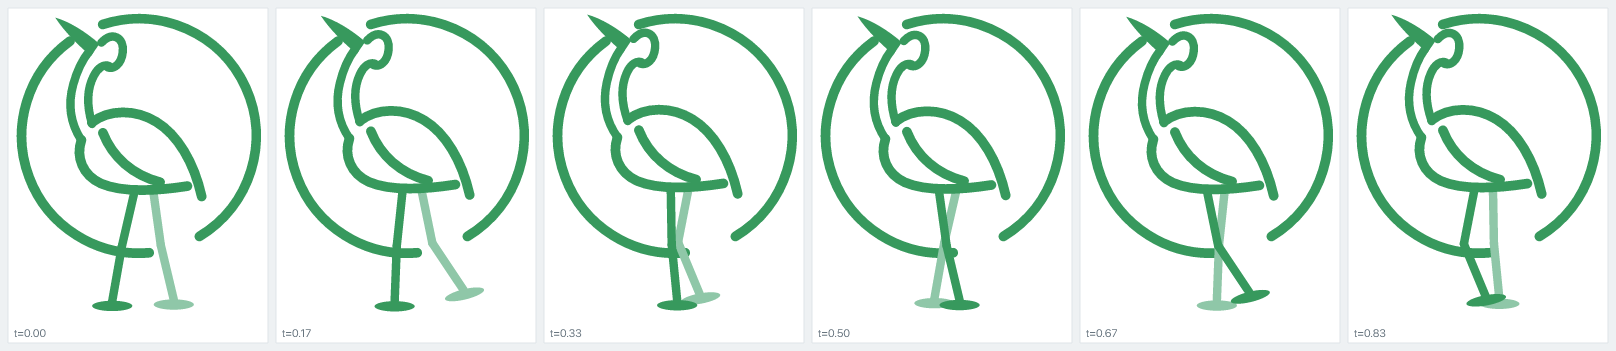
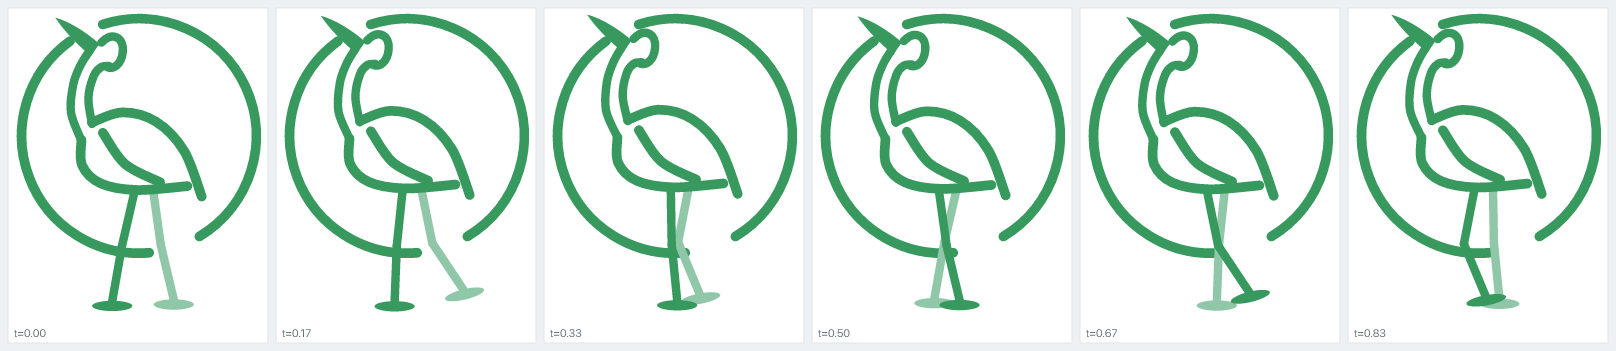
add arc and through drawing primitives

diff --git a/src/scene.ts b/src/scene.ts
@@ -265,6 +265,126 @@ export function path(o: { d: string } & Fill & Stroke): void {
   shape('path', { d: o.d, ...paint(o) });
 }
 
+// --- curves and arcs ---------------------------------------------------------
+// Geometry stated the way you think about it, rather than as an SVG `d` string.
+// Both of these exist because writing the string form by hand is where drawing
+// code actually goes wrong: arc flags are a coin-flip, and Bezier handles are
+// numbers you cannot read off a reference image.
+
+/** Two decimals is finer than any renderer resolves, and keeps `d` readable. */
+function n(v: number): string {
+  return String(Math.round(v * 100) / 100);
+}
+
+function xy(p: Vec2): string {
+  return `${n(p[0])},${n(p[1])}`;
+}
+
+export interface ArcOptions {
+  cx: number;
+  cy: number;
+  /** Circular radius. Give `rx`/`ry` instead for an ellipse. */
+  r?: number;
+  rx?: number;
+  ry?: number;
+  /**
+   * Angles in degrees, 0 at 3 o'clock and increasing clockwise, matching the
+   * y-down coordinate system everything else here uses. `to` less than `from`
+   * sweeps the other way. Omit both for a closed ring.
+   */
+  from?: number;
+  to?: number;
+  /** Rotation of an ellipse's own axes, degrees. */
+  rotate?: number;
+}
+
+/**
+ * An arc as centre, radius and two angles.
+ *
+ * The SVG form — `A rx ry rot large-arc sweep x y` — needs the endpoints solved
+ * by hand and then two flags whose meaning nobody recalls under pressure. This
+ * takes what you actually know and emits segments of at most 180 degrees, which
+ * makes the large-arc flag unconditionally 0 and lets a full ring be one call.
+ */
+export function arcPath(o: ArcOptions): string {
+  const rx = o.rx ?? o.r;
+  const ry = o.ry ?? o.r;
+  if (rx === undefined || ry === undefined) {
+    throw new Error('heron: arc() needs r, or both rx and ry');
+  }
+  const from = o.from ?? 0;
+  const span = (o.to ?? 360) - from;
+  if (!span) throw new Error('heron: arc() from and to are the same angle');
+
+  const rot = o.rotate ?? 0;
+  const cosR = Math.cos((rot * Math.PI) / 180);
+  const sinR = Math.sin((rot * Math.PI) / 180);
+  const at = (deg: number): Vec2 => {
+    const a = (deg * Math.PI) / 180;
+    const px = rx * Math.cos(a);
+    const py = ry * Math.sin(a);
+    return [o.cx + px * cosR - py * sinR, o.cy + px * sinR + py * cosR];
+  };
+
+  // Splitting at 180 degrees is what removes the flag guesswork: no segment can
+  // ever be the "large" one, and a sweep of 360 or more stops being impossible.
+  const steps = Math.max(1, Math.ceil(Math.abs(span) / 180));
+  const sweep = span > 0 ? 1 : 0;
+  let d = `M${xy(at(from))}`;
+  for (let i = 1; i <= steps; i++) {
+    d += ` A${n(rx)},${n(ry)} ${n(rot)} 0 ${sweep} ${xy(at(from + (span * i) / steps))}`;
+  }
+  return Math.abs(span) >= 360 ? `${d} Z` : d;
+}
+
+export function arc(o: ArcOptions & Fill & Stroke): void {
+  shape('path', { d: arcPath(o), ...paint(o) });
+}
+
+export interface CurveOptions {
+  /** Join the last point back to the first. */
+  closed?: boolean;
+  /** 1 is a natural curve; 0 collapses to straight segments. */
+  tension?: number;
+}
+
+/**
+ * A smooth curve through every point given.
+ *
+ * This is the one that changes how a character gets drawn from a reference.
+ * A cubic's control points are not on the curve, so they cannot be read off an
+ * image — they have to be guessed, checked in a render, and adjusted, which is
+ * a slow loop over numbers with no visible meaning. The points here are all on
+ * the curve, so they are exactly the positions you can see and correct.
+ */
+export function curvePath(points: Vec2[], o: CurveOptions = {}): string {
+  if (points.length < 2) throw new Error('heron: through() needs at least two points');
+  const closed = o.closed ?? false;
+  if (points.length === 2 && !closed) return `M${xy(points[0])} L${xy(points[1])}`;
+
+  const len = points.length;
+  // Open curves clamp at the ends, which makes the first and last segments bend
+  // toward their neighbour instead of flicking off in an arbitrary direction.
+  const at = (i: number): Vec2 =>
+    closed ? points[((i % len) + len) % len] : points[Math.max(0, Math.min(len - 1, i))];
+
+  // Catmull-Rom in Bezier form: the tangent at a point is the direction between
+  // its two neighbours, scaled by a sixth to match cubic parameterisation.
+  const k = (o.tension ?? 1) / 6;
+  let d = `M${xy(points[0])}`;
+  for (let i = 0; i < (closed ? len : len - 1); i++) {
+    const [p0, p1, p2, p3] = [at(i - 1), at(i), at(i + 1), at(i + 2)];
+    const c1: Vec2 = [p1[0] + (p2[0] - p0[0]) * k, p1[1] + (p2[1] - p0[1]) * k];
+    const c2: Vec2 = [p2[0] - (p3[0] - p1[0]) * k, p2[1] - (p3[1] - p1[1]) * k];
+    d += ` C${xy(c1)} ${xy(c2)} ${xy(p2)}`;
+  }
+  return closed ? `${d} Z` : d;
+}
+
+export function through(points: Vec2[], o: CurveOptions & Fill & Stroke = {}): void {
+  shape('path', { d: curvePath(points, o), ...paint(o) });
+}
+
 export function polygon(o: { points: Vec2[] } & Fill & Stroke): void {
   shape('polygon', { points: o.points.map((p) => p.join(',')).join(' '), ...paint(o) });
 }

diff --git a/examples/tenfore.ts b/examples/tenfore.ts
@@ -14,7 +14,7 @@
  */
 
 import {
-  character, part, layer, line, ellipse, path,
+  character, part, layer, line, ellipse, path, arc, through,
   walkCycle, bodyBob, sway, applyGait,
   type Character, type Vec2,
 } from '../src/index.ts';
@@ -27,22 +27,7 @@ const FAR = '#8fc7a8';
 const RING_W = 30;
 const LINE_W = 30;
 
-// --- the ring ----------------------------------------------------------------
-
-const CX = 513;
-const CY = 424;
-const R = 361;
-
-/** Arc of the ring between two clockwise-from-3-o'clock angles. */
-function ring(a0: number, a1: number): string {
-  const at = (a: number): Vec2 => [
-    CX + R * Math.cos((a * Math.PI) / 180),
-    CY + R * Math.sin((a * Math.PI) / 180),
-  ];
-  const [x0, y0] = at(a0);
-  const [x1, y1] = at(a1);
-  return `M${x0.toFixed(1)},${y0.toFixed(1)} A${R},${R} 0 ${a1 - a0 > 180 ? 1 : 0} 1 ${x1.toFixed(1)},${y1.toFixed(1)}`;
-}
+const RING = { cx: 513, cy: 424, r: 361 };
 
 // --- the bird ----------------------------------------------------------------
 
@@ -83,29 +68,45 @@ export const tenfore: Character = character(
     layer('frame', () => {
       // Two arcs, not one: the mark's ring is broken where the beak crosses it
       // at the top left, and again at the bottom right.
-      path({ d: ring(85, 234), stroke: GREEN, width: RING_W, cap: 'round' });
-      path({ d: ring(252, 419), stroke: GREEN, width: RING_W, cap: 'round' });
+      arc({ ...RING, from: 85, to: 234, stroke: GREEN, width: RING_W, cap: 'round' });
+      arc({ ...RING, from: 252, to: 419, stroke: GREEN, width: RING_W, cap: 'round' });
     });
 
     part('body', { pivot: [500, 470] }, () => {
       leg('legFar', HIP_FAR, FAR);
 
+      // Every outline below is a list of points that lie ON the curve, so each
+      // one is a position readable straight off the reference art. None of them
+      // is a Bezier handle that has to be guessed and then corrected by render.
+
       // Back and tail: one sweep from the neck root out to the tail tip.
-      path({ d: 'M368,378 C420,338 500,336 566,376 C632,416 682,500 706,606', stroke: GREEN, width: LINE_W });
+      through([[368, 378], [462, 347], [566, 376], [652, 466], [706, 606]],
+        { stroke: GREEN, width: LINE_W });
       // Breast and belly, closing under the tail.
-      path({ d: 'M336,432 C318,486 340,540 396,566 C452,590 546,592 662,574', stroke: GREEN, width: LINE_W });
+      through([[336, 432], [338, 510], [396, 566], [507, 586], [662, 574]],
+        { stroke: GREEN, width: LINE_W });
       // Folded wing.
-      path({ d: 'M402,410 C432,486 494,540 578,562', stroke: GREEN, width: LINE_W });
+      through([[402, 410], [470, 506], [578, 562]], { stroke: GREEN, width: LINE_W });
 
       part('neck', { pivot: [352, 400] }, () => {
         // The neck is a tube: two near-parallel edges bulging left on the way up.
-        path({ d: 'M336,432 C300,380 292,320 306,262 C316,220 334,182 352,158', stroke: GREEN, width: 26 });
-        path({ d: 'M368,382 C350,328 348,276 368,234 C380,208 398,196 414,202', stroke: GREEN, width: 26 });
+        through([[336, 432], [302, 349], [306, 262], [326, 203], [352, 158]],
+          { stroke: GREEN, width: 26 });
+        through([[368, 382], [354, 304], [368, 234], [390, 206], [414, 202]],
+          { stroke: GREEN, width: 26 });
 
         part('head', { pivot: [412, 204] }, () => {
           // The crown hooks over from the beak and back down into the throat,
           // leaving the open notch the mark has rather than a closed loop.
+          //
+          // Also stays a `d` string, for the opposite reason to the beak: the
+          // hook is tight, and curvature is exactly what a Bezier handle buys
+          // cheaply. Pinning this down with on-curve points took nine of them
+          // and still read rounder. `through` is for long organic runs.
           path({ d: 'M390,130 C424,94 460,114 456,158 C452,198 428,212 410,206', stroke: GREEN, width: 26 });
+          // Stays a `d` string on purpose. The beak is a sharp tip and a flat
+          // base, and `through` smooths every vertex it is given, so it would
+          // round the point off. Corners are what plain `path` is still for.
           path({ d: 'M247,54 C290,66 340,96 384,134 L358,172 C318,138 276,98 247,54 Z', fill: GREEN });
         });
       });

diff --git a/test/heron.test.ts b/test/heron.test.ts
@@ -5,6 +5,7 @@ import {
   character, part, limb, ellipse, circle, path, keys, sampled,
   compile, evaluate, pointAt, lint, renderStatic,
   cubicBezier, linear, easeInOut, walkCycle, partBox,
+  arcPath, curvePath, type Vec2,
 } from '../src/index.ts';
 import { crane } from '../examples/crane.ts';
 
@@ -185,6 +186,39 @@ test('the left-facing logo walks the way it points', async () => {
   const [x0] = pointAt(tenfore, 'legNear.foot', 0);
   const [x1] = pointAt(tenfore, 'legNear.foot', 0.5);
   assert.ok(x1 > x0, `contact must track forward, got ${x0.toFixed(1)} -> ${x1.toFixed(1)}`);
+});
+
+test('arc() takes a centre and two angles, and never emits a large-arc flag', () => {
+  // Splitting at 180 degrees is the whole point: the flag that nobody remembers
+  // the meaning of becomes unconditionally 0, and a full ring stops being a
+  // special case that a single A command cannot express at all.
+  const d = arcPath({ cx: 100, cy: 100, r: 50, from: 0, to: 270 });
+  const arcs = d.match(/A[^A]*/g)!;
+  assert.equal(arcs.length, 2, '270 degrees splits into two sub-180 segments');
+  for (const a of arcs) assert.match(a, /A50,50 0 0 1 /, 'large-arc flag is 0, sweep is positive');
+  assert.ok(d.startsWith('M150,100'), `starts at 0 degrees, got ${d.slice(0, 12)}`);
+  assert.ok(d.trimEnd().endsWith('100,50'), `ends at 270 degrees, got ${d.slice(-10)}`);
+
+  assert.ok(arcPath({ cx: 0, cy: 0, r: 5 }).endsWith('Z'), 'omitting the angles closes a full ring');
+  assert.match(arcPath({ cx: 0, cy: 0, r: 5, from: 90, to: 0 }), / 0 0 /, 'a backwards span sweeps the other way');
+});
+
+test('through() puts the curve on the points, not merely near them', () => {
+  // This is the property that makes the coordinates readable off a reference
+  // image: every one of them is a place the curve actually goes.
+  const pts: Vec2[] = [[10, 10], [40, 60], [90, 50], [120, 90]];
+  const ends = curvePath(pts).split('C').slice(1)
+    .map((s) => s.trim().split(/\s+/)[2].split(',').map(Number));
+  assert.deepEqual(ends, pts.slice(1));
+
+  // Zero tension collapses each cubic onto its own chord.
+  const flat = curvePath(pts, { tension: 0 }).split('C').slice(1)[0].trim().split(/\s+/);
+  assert.equal(flat[0], '10,10');
+  assert.equal(flat[1], '40,60');
+
+  const loop = curvePath(pts, { closed: true });
+  assert.ok(loop.endsWith('Z'));
+  assert.equal(loop.split('C').length - 1, pts.length, 'a closed curve returns to its first point');
 });
 
 test('a big arc is bounded by its own extent, not padded by its radii', () => {

diff --git a/src/index.ts b/src/index.ts
@@ -11,6 +11,10 @@ export {
   line,
   path,
   polygon,
+  arc,
+  arcPath,
+  through,
+  curvePath,
   activeChannels,
   CHANNELS,
   NEUTRAL,
@@ -19,7 +23,7 @@ export {
 } from './scene.ts';
 export type {
   Vec2, ViewBox, Track, Channel, ChannelName, Node,
-  CharacterOptions, PartOptions, LimbOptions,
+  CharacterOptions, PartOptions, LimbOptions, ArcOptions, CurveOptions,
 } from './scene.ts';
 
 export { linear, ease, easeIn, easeOut, easeInOut, glide, push, swing, cubicBezier, steps } from './easing.ts';

diff --git a/SKILL.md b/SKILL.md
@@ -65,6 +65,45 @@ Rules that matter:
   colour, length and thickness as the hind leg beneath it, it reads as a second
   hind leg no matter how it is animated.
 
+### Drawing curves: prefer points you can see
+
+Primitives are `ellipse`, `circle`, `rect`, `line`, `polygon`, `arc`, `through`
+and `path`. Two of them are worth knowing before you reach for `path`:
+
+```ts
+// Centre and two angles. 0 is 3 o'clock, increasing clockwise.
+arc({ cx: 513, cy: 424, r: 361, from: 85, to: 234, stroke: '#37995d', width: 30 });
+arc({ cx: 50, cy: 50, r: 20, fill: 'none', stroke: '#000' });   // omit angles: full ring
+
+// A smooth curve through every point listed.
+through([[368, 378], [462, 347], [566, 376], [652, 466], [706, 606]],
+        { stroke: '#37995d', width: 30 });
+```
+
+`through` matters more than it looks. A cubic's control points are *not on the
+curve*, so they cannot be read off a reference image — they have to be guessed,
+rendered, and nudged. Every point you give `through` is a place the curve
+actually goes, so tracing an outline becomes reading coordinates rather than
+solving for handles, and correcting it after a snapshot is moving a point you
+can see. Use it for backs, bellies, necks, wings, tails.
+
+`arc` removes the other reliable mistake. Written as `d`, an arc is
+`A rx ry rot large-arc sweep x y`: endpoints you must solve by hand plus two
+flags whose meaning nobody recalls. `arc` takes what you know and emits
+segments of at most 180 degrees, so the large-arc flag is always 0 and a full
+ring is one call.
+
+**Keep using `path({ d })` for two things**, because `through` is worse at both:
+
+- **Corners.** `through` smooths every vertex, so a beak tip or a folded wing
+  comes out rounded. Anything with a deliberate point stays a `d` string.
+- **Tight curls.** Curvature is exactly what a Bezier handle buys cheaply. A
+  small tight hook that two cubics describe in eight numbers needs about nine
+  on-curve points to pin down, and still reads rounder.
+
+Long organic runs → `through`. Circles and rings → `arc`. Corners and tight
+detail → `path`.
+
 ## 2. Animate
 
 Times are fractions of one cycle, 0 to 1. A key's easing governs the segment
